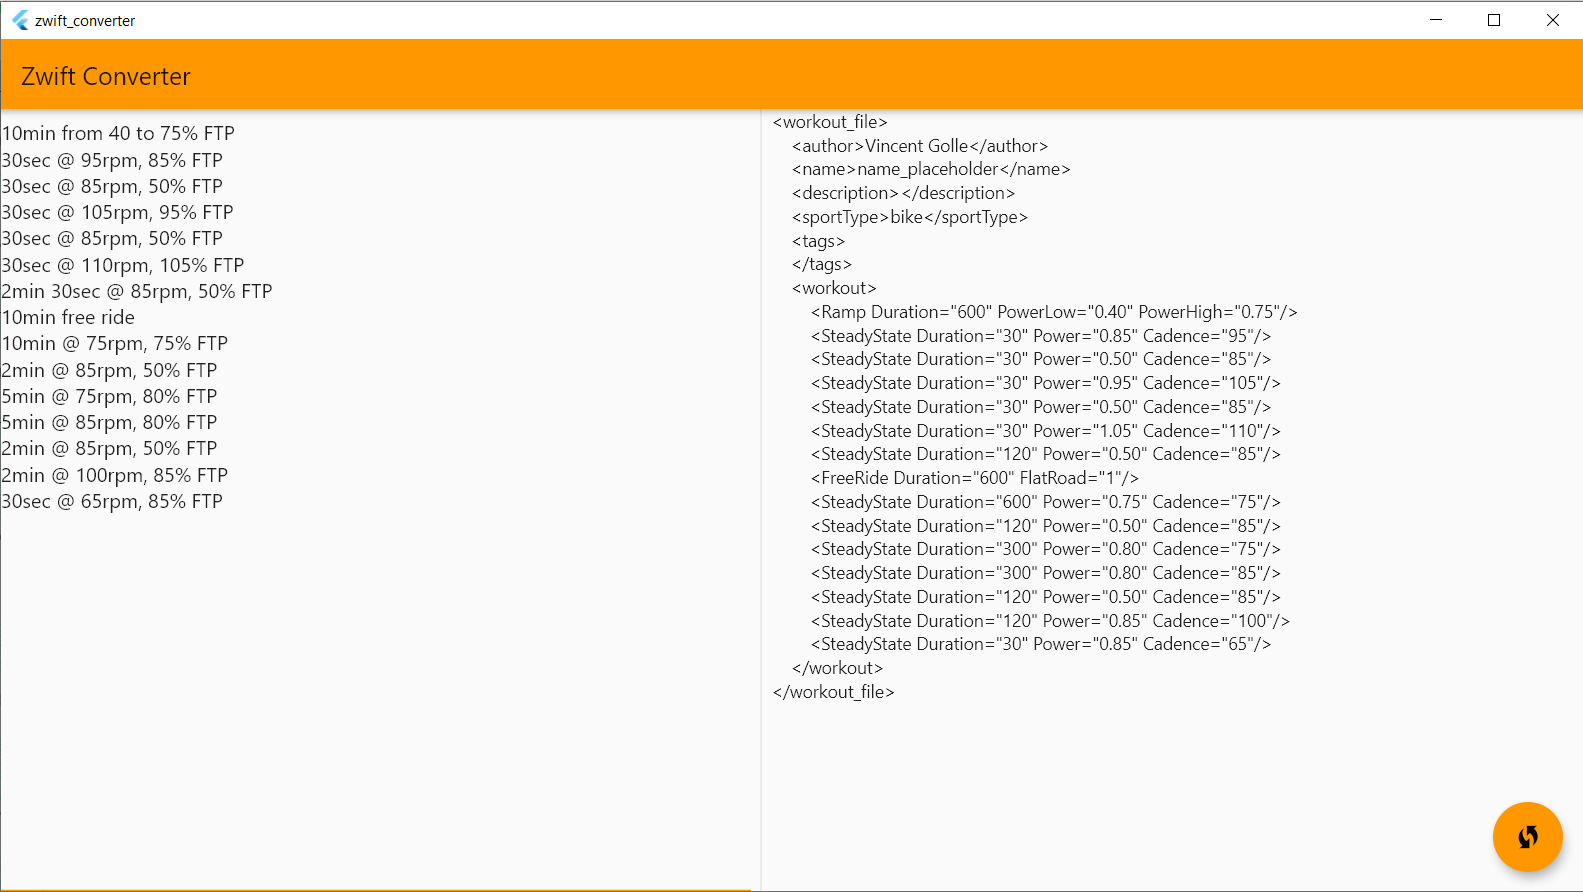
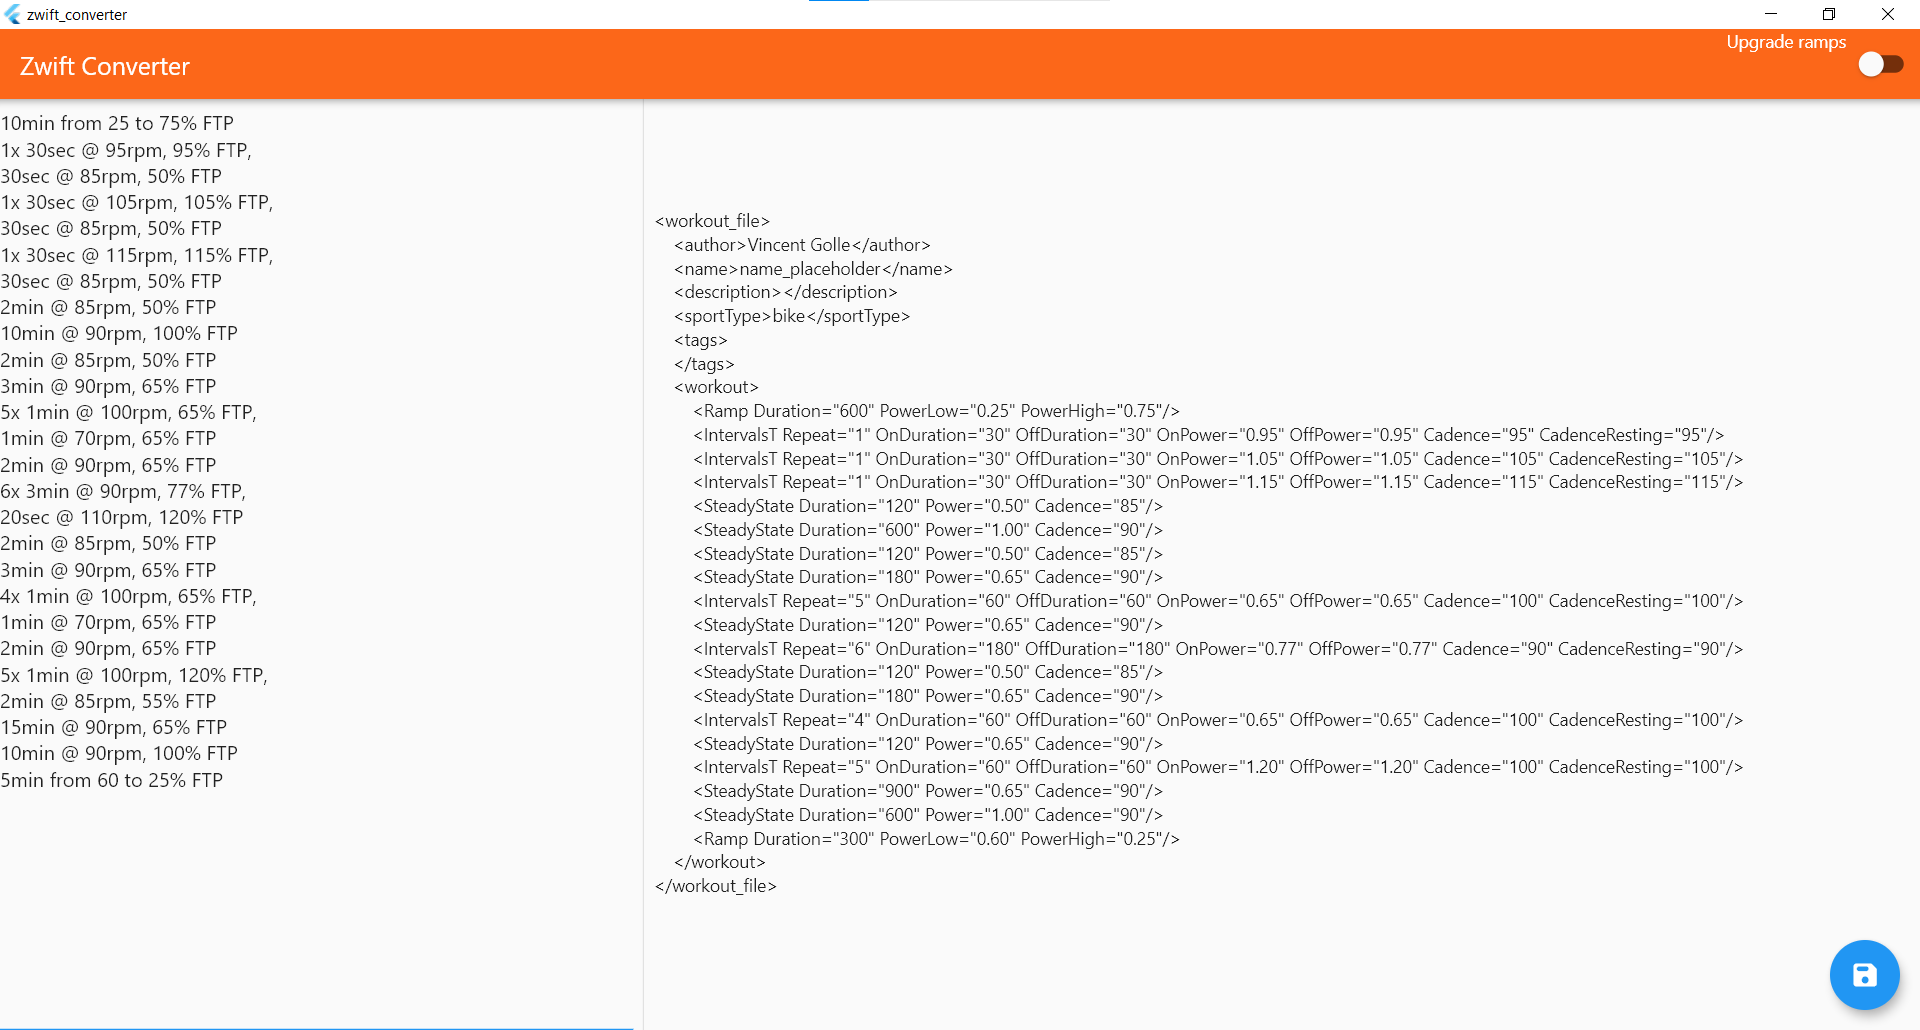
Updated screenshot and colors

Changed region(s): [[0.0, 0.0, 1.0, 0.8778], [0.0, 0.8778, 1.0, 1.0]]

diff --git a/lib/main.dart b/lib/main.dart
@@ -1,7 +1,5 @@
-import 'dart:io';
 import 'dart:typed_data';
 
-import 'package:file_picker/file_picker.dart';
 import 'package:file_picker_cross/file_picker_cross.dart';
 import 'package:flutter/material.dart';
 
@@ -30,7 +28,7 @@ class MyApp extends StatelessWidget {
         // or simply save your changes to "hot reload" in a Flutter IDE).
         // Notice that the counter didn't reset back to zero; the application
         // is not restarted.
-        primarySwatch: Colors.orange,
+        primaryColor: Color.fromRGBO(0xFC, 0x67, 0x19, 1.0), // Zwift => 0xFC6719
       ),
       home: MyHomePage(title: 'Zwift Converter'),
     );
